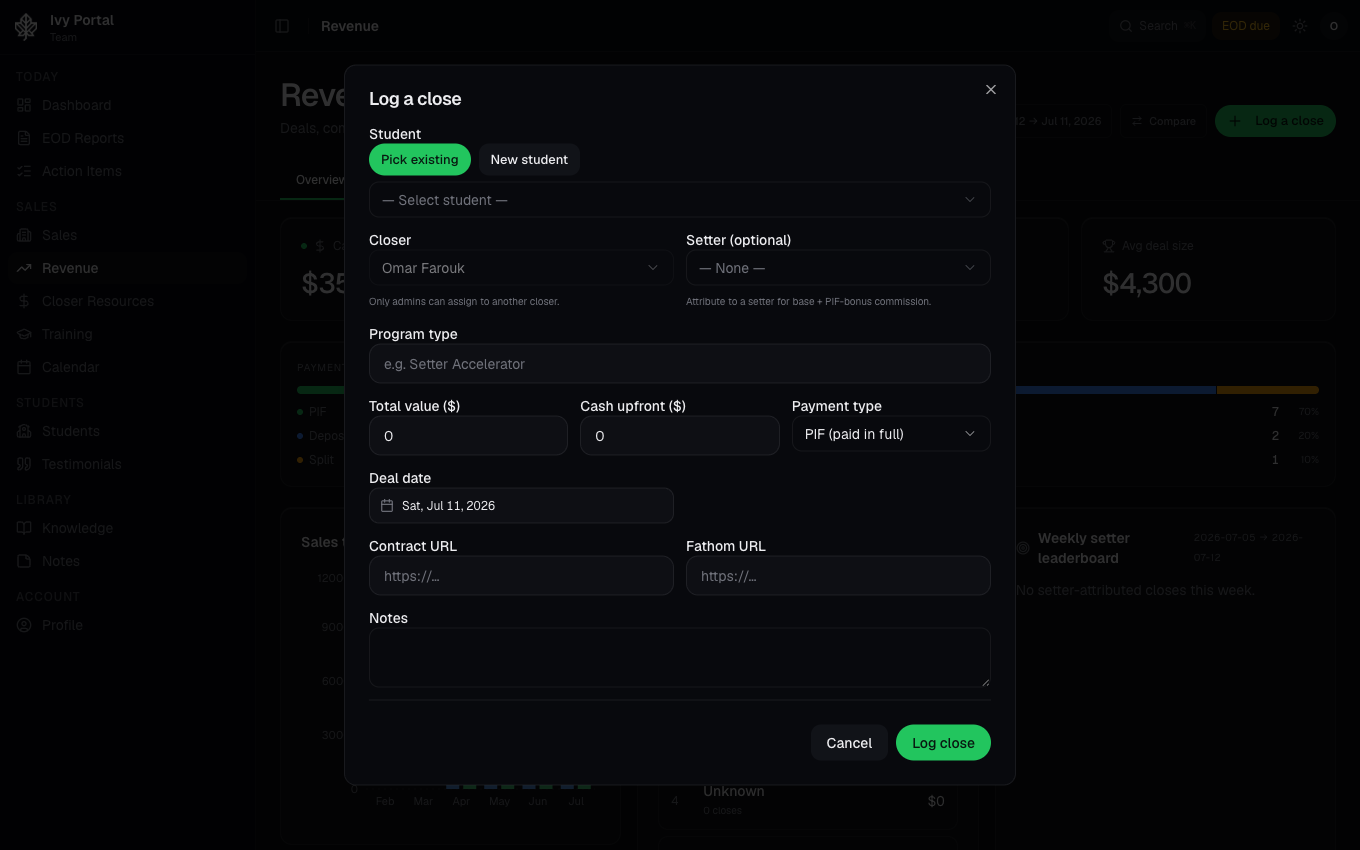
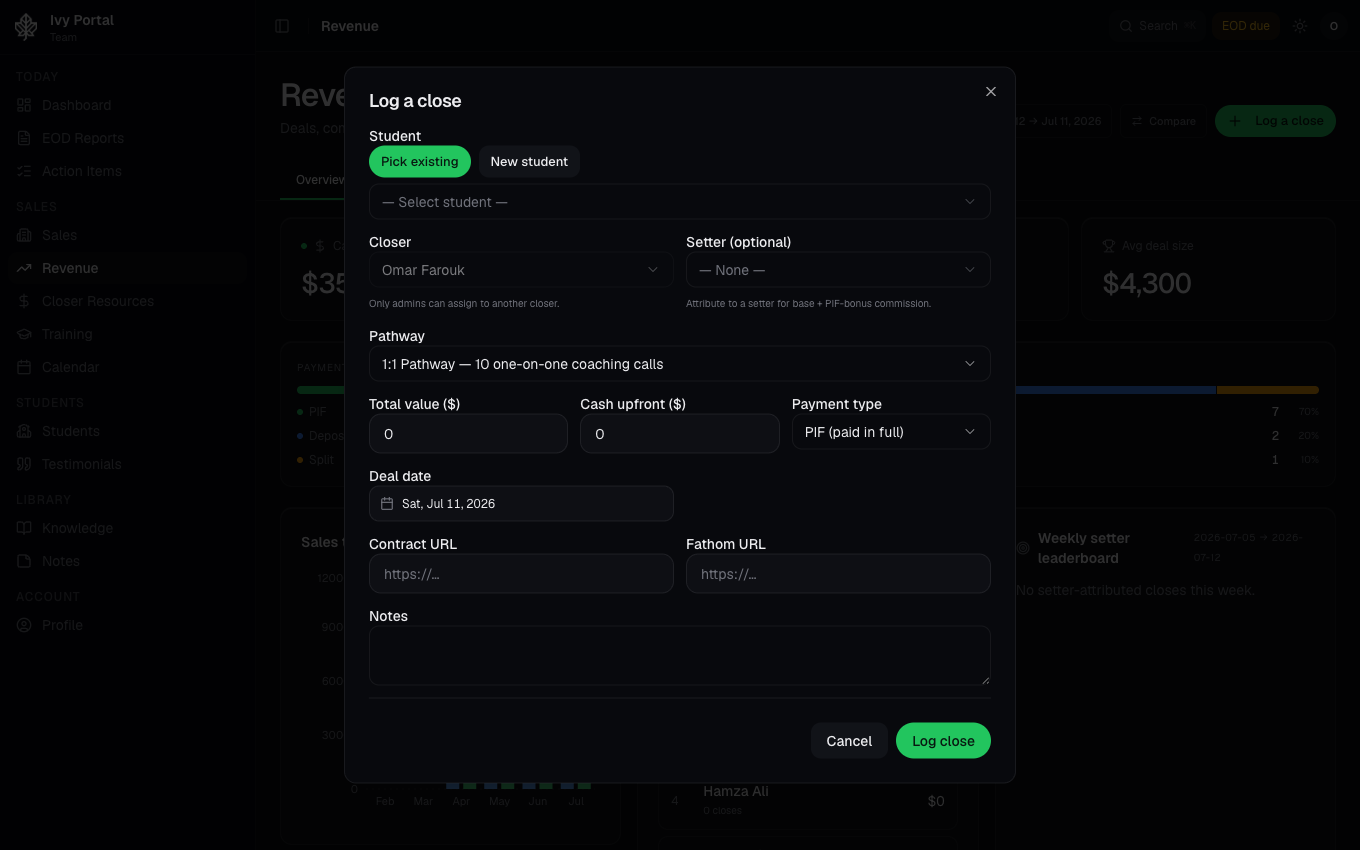
feat(revenue): pathway + custom installment schedules in Log a close; closer RLS fixes
Log a close now matches the payment-setup flow it lost parity with:
- Pathway select replaces the free-text program field: 1:1 Pathway (student
  gets 10 one-on-one calls) or Group Expertise Pathway (group coaching only,
  1:1 allowance zero). The choice sets the student's coaching allowance
  automatically — for new students AND existing ones (self-signups).
- Deposit/split deals get the full plan builder: even split (n, first due,
  frequency) or custom schedule rows (amount/date/method) for uneven deals
  like $5k as $2k+$2k+$1k, with a matches-remaining validator.
- Add-student and payment-setup dialogs relabeled to 'Group Expertise
  Pathway' for consistency.

RLS fixes surfaced by end-to-end testing as a real closer:
- closers couldn't insert/update students (Log a close silently skipped the
  student update) or write installment plans/payments (insert failed);
- closers had no SELECT on installments/installment_payments (per business
  rules these are closer/admin records; also broke insert..returning).

Guides: closers guide rewritten around the new flow (pathway meaning, custom
schedule with the 5k example, close-from-student-page for self-signups);
CSM/coach guides gained screenshots for action-item assignment, student
record, and coach capacity. Verified end-to-end: closer sets up a $5,000
custom plan via the UI → deal, student state, and 3 scheduled payments all
correct.

diff --git a/src/routes/_authenticated.revenue.tsx b/src/routes/_authenticated.revenue.tsx
@@ -627,8 +627,19 @@ function LogDealDialog({
   const [notes, setNotes] = useState("");
   const [autoCreateStudent, setAutoCreateStudent] = useState(true);
   const [autoCreateInstallment, setAutoCreateInstallment] = useState(true);
-  const [installments, setInstallments] = useState<string>("3");
   const [saving, setSaving] = useState(false);
+
+  // Installment schedule builder (mirrors StudentPaymentSetup)
+  type ScheduleRow = { id: string; amount: string; due_date: string; payment_method: string };
+  const nextMonth = () => { const d = new Date(); d.setMonth(d.getMonth() + 1); return d.toISOString().slice(0, 10); };
+  const [scheduleMode, setScheduleMode] = useState<"even" | "custom">("even");
+  const [numInstallments, setNumInstallments] = useState<string>("3");
+  const [firstDueDate, setFirstDueDate] = useState<string>(nextMonth);
+  const [frequency, setFrequency] = useState<"monthly" | "biweekly" | "weekly">("monthly");
+  const [customRows, setCustomRows] = useState<ScheduleRow[]>([]);
+  const addCustomRow = () => setCustomRows(rs => [...rs, { id: crypto.randomUUID(), amount: "", due_date: nextMonth(), payment_method: "" }]);
+  const removeCustomRow = (id: string) => setCustomRows(rs => rs.length > 1 ? rs.filter(r => r.id !== id) : rs);
+  const updateCustomRow = (id: string, patch: Partial<ScheduleRow>) => setCustomRows(rs => rs.map(r => r.id === id ? { ...r, ...patch } : r));
 
   useEffect(() => {
     if (!open) return;
@@ -663,9 +674,15 @@ function LogDealDialog({
       setFathomUrl("");
       setNotes("");
       setAutoCreateStudent(true);
-      setAutoCreateInstallment(false);
-      setInstallments("3");
+      setAutoCreateInstallment(true);
+      setScheduleMode("even");
+      setNumInstallments("3");
+      setFirstDueDate(nextMonth());
+      setFrequency("monthly");
+      setCustomRows([{ id: crypto.randomUUID(), amount: "", due_date: nextMonth(), payment_method: "" }]);
+      setProgramType("1:1 Pathway");
     }
+    // eslint-disable-next-line react-hooks/exhaustive-deps
   }, [open, editing, currentUserId]);
 
   const submit = async () => {
@@ -681,8 +698,21 @@ function LogDealDialog({
     const cu = Number(cashUpfront) || 0;
     if (tv <= 0) return toast.error("Total value must be > 0");
     if (cu > tv) return toast.error("Cash upfront cannot exceed total value");
+    const remaining = Math.max(0, tv - cu);
+    const planWanted = !editing && paymentType !== "pif" && autoCreateInstallment && remaining > 0;
+    const cleanCustom = customRows.filter(r => Number(r.amount) > 0);
+    if (planWanted && scheduleMode === "custom") {
+      if (cleanCustom.length === 0) return toast.error("Add at least one payment row to the schedule");
+      if (cleanCustom.some(r => !r.due_date)) return toast.error("Each payment row needs a due date");
+      const scheduled = cleanCustom.reduce((a, r) => a + Number(r.amount), 0);
+      if (Math.abs(scheduled - remaining) > 0.01) return toast.error(`Schedule ($${scheduled.toLocaleString()}) must match the remaining balance ($${remaining.toLocaleString()})`);
+    }
 
     setSaving(true);
+
+    // Pathway drives the coaching allowance: 1:1 gets ten 1-on-1 calls,
+    // Group Expertise runs on group calls only.
+    const callsAllotted = programType === "1:1 Pathway" ? 10 : 0;
 
     // Optionally create student first
     if (!editing && studentMode === "new" && autoCreateStudent) {
@@ -693,6 +723,8 @@ function LogDealDialog({
           phase: "onboarding",
           status: "active",
           payment_state: paymentType === "pif" ? "paid_in_full" : "installments",
+          calls_included: callsAllotted,
+          calls_allotted: callsAllotted,
         })
         .select("id")
         .single();
@@ -701,6 +733,14 @@ function LogDealDialog({
         return toast.error("Create student: " + error.message);
       }
       finalStudentId = newStu.id;
+    } else if (!editing && finalStudentId) {
+      // Existing student (e.g. signed up themselves): the deal defines their
+      // package and payment state.
+      await supabase.from("students").update({
+        payment_state: paymentType === "pif" ? "paid_in_full" : "installments",
+        calls_included: callsAllotted,
+        calls_allotted: callsAllotted,
+      } as never).eq("id", finalStudentId);
     }
 
     const payload = {
@@ -732,17 +772,16 @@ function LogDealDialog({
       dealId = data.id;
     }
 
-    // Optionally create installment plan
-    if (!editing && paymentType === "split" && autoCreateInstallment && finalStudentId) {
-      const n = Math.max(1, Math.min(24, Number(installments) || 3));
-      const remaining = Math.max(0, tv - cu);
-      const perInstallment = remaining / n;
+    // Installment plan — even split or custom schedule (deposit or split)
+    if (planWanted && finalStudentId) {
+      const n = Math.max(1, Math.min(24, Number(numInstallments) || 3));
       const { data: inst, error: instErr } = await supabase
         .from("installments")
         .insert({
           student_id: finalStudentId,
           student_name: finalStudentName,
           closer_id: closerId,
+          setter_id: setterId || null,
           total_amount: remaining,
           currency: "USD",
           created_by: currentUserId,
@@ -752,19 +791,39 @@ function LogDealDialog({
       if (instErr) {
         toast.error("Installment plan: " + instErr.message);
       } else {
-        const payments = Array.from({ length: n }, (_, i) => {
-          const due = new Date(dealDate + "T00:00:00");
-          due.setMonth(due.getMonth() + i + 1);
-          return {
-            installment_id: inst.id,
-            sequence: i + 1,
-            amount: perInstallment,
-            currency: "USD",
-            due_date: due.toISOString().slice(0, 10),
-            status: "upcoming" as const,
-          };
-        });
-        const { error: payErr } = await supabase.from("installment_payments").insert(payments);
+        let payments: Record<string, unknown>[];
+        if (scheduleMode === "even") {
+          const perInstallment = remaining / n;
+          const start = new Date(firstDueDate + "T00:00:00");
+          payments = Array.from({ length: n }, (_, i) => {
+            const due = new Date(start);
+            if (frequency === "monthly") due.setMonth(start.getMonth() + i);
+            else if (frequency === "biweekly") due.setDate(start.getDate() + i * 14);
+            else due.setDate(start.getDate() + i * 7);
+            return {
+              installment_id: inst.id,
+              sequence: i + 1,
+              amount: perInstallment,
+              currency: "USD",
+              due_date: due.toISOString().slice(0, 10),
+              status: "upcoming" as const,
+            };
+          });
+        } else {
+          payments = cleanCustom
+            .slice()
+            .sort((a, b) => a.due_date.localeCompare(b.due_date))
+            .map((r, i) => ({
+              installment_id: inst.id,
+              sequence: i + 1,
+              amount: Number(r.amount),
+              currency: "USD",
+              due_date: r.due_date,
+              status: "upcoming" as const,
+              payment_method: r.payment_method.trim() || null,
+            }));
+        }
+        const { error: payErr } = await supabase.from("installment_payments").insert(payments as never);
         if (payErr) toast.error("Installment schedule: " + payErr.message);
       }
     }
@@ -849,8 +908,20 @@ function LogDealDialog({
           </div>
 
           <div className="space-y-1.5">
-            <Label>Program type</Label>
-            <Input value={programType} onChange={(e) => setProgramType(e.target.value)} placeholder="e.g. Setter Accelerator" />
+            <Label>Pathway</Label>
+            <SelectField
+              value={programType}
+              onChange={setProgramType}
+              options={[
+                { value: "1:1 Pathway", label: "1:1 Pathway — 10 one-on-one coaching calls" },
+                { value: "Group Expertise Pathway", label: "Group Expertise Pathway — group coaching only" },
+                ...(programType && !["1:1 Pathway", "Group Expertise Pathway"].includes(programType)
+                  ? [{ value: programType, label: programType }]
+                  : []),
+              ]}
+              placeholder="— Select pathway —"
+              className="h-9 text-sm"
+            />
           </div>
 
           <div className="grid sm:grid-cols-3 gap-3">
@@ -882,19 +953,104 @@ function LogDealDialog({
               <Label>Deal date</Label>
               <DateField value={dealDate} onChange={setDealDate} clearable={false} className="h-9" />
             </div>
-            {paymentType === "split" && !editing && (
-              <div className="space-y-1.5">
-                <Label># of installments</Label>
-                <Input
-                  type="number"
-                  min="1"
-                  max="24"
-                  value={installments}
-                  onChange={(e) => setInstallments(e.target.value)}
-                />
-              </div>
-            )}
           </div>
+
+          {paymentType !== "pif" && !editing && (
+            <div className="rounded-lg border border-[var(--border)] p-3 space-y-3">
+              <div className="flex items-center justify-between gap-3">
+                <label className="flex items-center gap-2 text-sm">
+                  <Checkbox checked={autoCreateInstallment} onCheckedChange={(v) => setAutoCreateInstallment(!!v)} />
+                  Create installment plan for the remaining balance
+                </label>
+                <span className="text-caption text-muted-foreground tabular-nums">
+                  remaining ${Math.max(0, (Number(totalValue) || 0) - (Number(cashUpfront) || 0)).toLocaleString()}
+                </span>
+              </div>
+              {autoCreateInstallment && (
+                <>
+                  <div className="grid grid-cols-2 gap-3">
+                    <div className="space-y-1.5">
+                      <Label className="text-caption text-muted-foreground">Schedule</Label>
+                      <SelectField
+                        value={scheduleMode}
+                        onChange={(v) => setScheduleMode(v as "even" | "custom")}
+                        options={[
+                          { value: "even", label: "Even split" },
+                          { value: "custom", label: "Custom schedule" },
+                        ]}
+                        className="h-9 text-sm"
+                      />
+                    </div>
+                    {scheduleMode === "even" && (
+                      <div className="space-y-1.5">
+                        <Label className="text-caption text-muted-foreground"># payments</Label>
+                        <Input type="number" min="1" max="24" value={numInstallments} onChange={(e) => setNumInstallments(e.target.value)} className="h-9" />
+                      </div>
+                    )}
+                  </div>
+                  {scheduleMode === "even" ? (
+                    <div className="grid grid-cols-2 gap-3">
+                      <div className="space-y-1.5">
+                        <Label className="text-caption text-muted-foreground">First due</Label>
+                        <DateField value={firstDueDate} onChange={setFirstDueDate} clearable={false} className="h-9" />
+                      </div>
+                      <div className="space-y-1.5">
+                        <Label className="text-caption text-muted-foreground">Frequency</Label>
+                        <SelectField
+                          value={frequency}
+                          onChange={(v) => setFrequency(v as "monthly" | "biweekly" | "weekly")}
+                          options={[
+                            { value: "monthly", label: "Monthly" },
+                            { value: "biweekly", label: "Biweekly" },
+                            { value: "weekly", label: "Weekly" },
+                          ]}
+                          className="h-9 text-sm"
+                        />
+                      </div>
+                      {(() => {
+                        const rem = Math.max(0, (Number(totalValue) || 0) - (Number(cashUpfront) || 0));
+                        const nn = Math.max(1, Math.min(24, Number(numInstallments) || 0));
+                        return rem > 0 && nn > 0 ? (
+                          <div className="col-span-2 text-caption text-muted-foreground">
+                            {nn} × <span className="text-foreground font-medium">${(rem / nn).toLocaleString(undefined, { maximumFractionDigits: 2 })}</span>
+                          </div>
+                        ) : null;
+                      })()}
+                    </div>
+                  ) : (
+                    <div className="space-y-2">
+                      {customRows.map((r, i) => (
+                        <div key={r.id} className="grid grid-cols-12 gap-2 items-center">
+                          <span className="col-span-1 text-caption text-muted-foreground">#{i + 1}</span>
+                          <Input type="number" min="0" step="0.01" value={r.amount} onChange={(e) => updateCustomRow(r.id, { amount: e.target.value })} placeholder="Amount" className="col-span-3 h-9" />
+                          <DateField value={r.due_date} onChange={(v) => updateCustomRow(r.id, { due_date: v })} clearable={false} className="col-span-4 h-9" />
+                          <Input value={r.payment_method} onChange={(e) => updateCustomRow(r.id, { payment_method: e.target.value })} placeholder="Method" className="col-span-3 h-9" />
+                          <button onClick={() => removeCustomRow(r.id)} className="col-span-1 p-1 rounded hover:bg-danger-bg text-danger-fg justify-self-end">
+                            <Trash2 className="h-3.5 w-3.5" />
+                          </button>
+                        </div>
+                      ))}
+                      {(() => {
+                        const rem = Math.max(0, (Number(totalValue) || 0) - (Number(cashUpfront) || 0));
+                        const scheduled = customRows.reduce((a, r) => a + (Number(r.amount) || 0), 0);
+                        const delta = rem - scheduled;
+                        return (
+                          <div className="flex items-center justify-between">
+                            <Button variant="outline" size="sm" onClick={addCustomRow}>
+                              <Plus className="h-3.5 w-3.5 mr-1" /> Add row
+                            </Button>
+                            <span className={`text-caption tabular-nums ${Math.abs(delta) < 0.01 ? "text-success-fg" : "text-warning-fg"}`}>
+                              scheduled ${scheduled.toLocaleString()} · {Math.abs(delta) < 0.01 ? "matches remaining" : delta > 0 ? `$${delta.toLocaleString()} unallocated` : `$${Math.abs(delta).toLocaleString()} over`}
+                            </span>
+                          </div>
+                        );
+                      })()}
+                    </div>
+                  )}
+                </>
+              )}
+            </div>
+          )}
 
           <div className="grid sm:grid-cols-2 gap-3">
             <div className="space-y-1.5">
@@ -921,15 +1077,6 @@ function LogDealDialog({
                     onCheckedChange={(v) => setAutoCreateStudent(!!v)}
                   />
                   Create student record (goes into onboarding)
-                </label>
-              )}
-              {paymentType === "split" && (
-                <label className="flex items-center gap-2 text-sm">
-                  <Checkbox
-                    checked={autoCreateInstallment}
-                    onCheckedChange={(v) => setAutoCreateInstallment(!!v)}
-                  />
-                  Auto-create installment plan (monthly, starting next month)
                 </label>
               )}
             </div>

diff --git a/src/routes/_authenticated.students.tsx b/src/routes/_authenticated.students.tsx
@@ -724,7 +724,7 @@ function AddStudentModal({ onClose, onCreated, coaches }: { onClose: () => void;
           student_name: fullName.trim(),
           closer_id: closerId,
           setter_id: setterId || null,
-          program_type: pkg === "one_on_one" ? "1:1 Pathway" : "Group Coaching",
+          program_type: pkg === "one_on_one" ? "1:1 Pathway" : "Group Expertise Pathway",
           total_value: tv,
           cash_collected_upfront: cashUpfront,
           payment_type: paymentType as any,
@@ -853,7 +853,7 @@ function AddStudentModal({ onClose, onCreated, coaches }: { onClose: () => void;
               onClick={() => setPkg("group_only")}
               className={`text-left p-3 rounded-sm border transition ${pkg === "group_only" ? "border-border bg-muted" : "border-[var(--border)] hover:border-[#2a3140]"}`}
             >
-              <div className="text-xs font-medium">Group Coaching Only</div>
+              <div className="text-xs font-medium">Group Expertise Pathway</div>
               <div className="text-[10px] text-muted-foreground mt-0.5">Group calls only, no 1:1s</div>
             </button>
           </div>

diff --git a/src/components/student-payment-setup.tsx b/src/components/student-payment-setup.tsx
@@ -110,7 +110,7 @@ export function StudentPaymentSetup({
         student_name: student.full_name,
         closer_id: closerId,
         setter_id: setterId || null,
-        program_type: pkg === "one_on_one" ? "1:1 Pathway" : "Group Coaching",
+        program_type: pkg === "one_on_one" ? "1:1 Pathway" : "Group Expertise Pathway",
         total_value: tv,
         cash_collected_upfront: cashUpfront,
         payment_type: paymentType,
@@ -203,8 +203,8 @@ export function StudentPaymentSetup({
               value={pkg}
               onChange={(v) => setPkg(v as typeof pkg)}
               options={[
-                { value: "one_on_one", label: "1:1 Pathway" },
-                { value: "group_only", label: "Group Coaching" },
+                { value: "one_on_one", label: "1:1 Pathway — 10 coaching calls" },
+                { value: "group_only", label: "Group Expertise Pathway" },
               ]}
               className="h-9 text-sm"
             />
